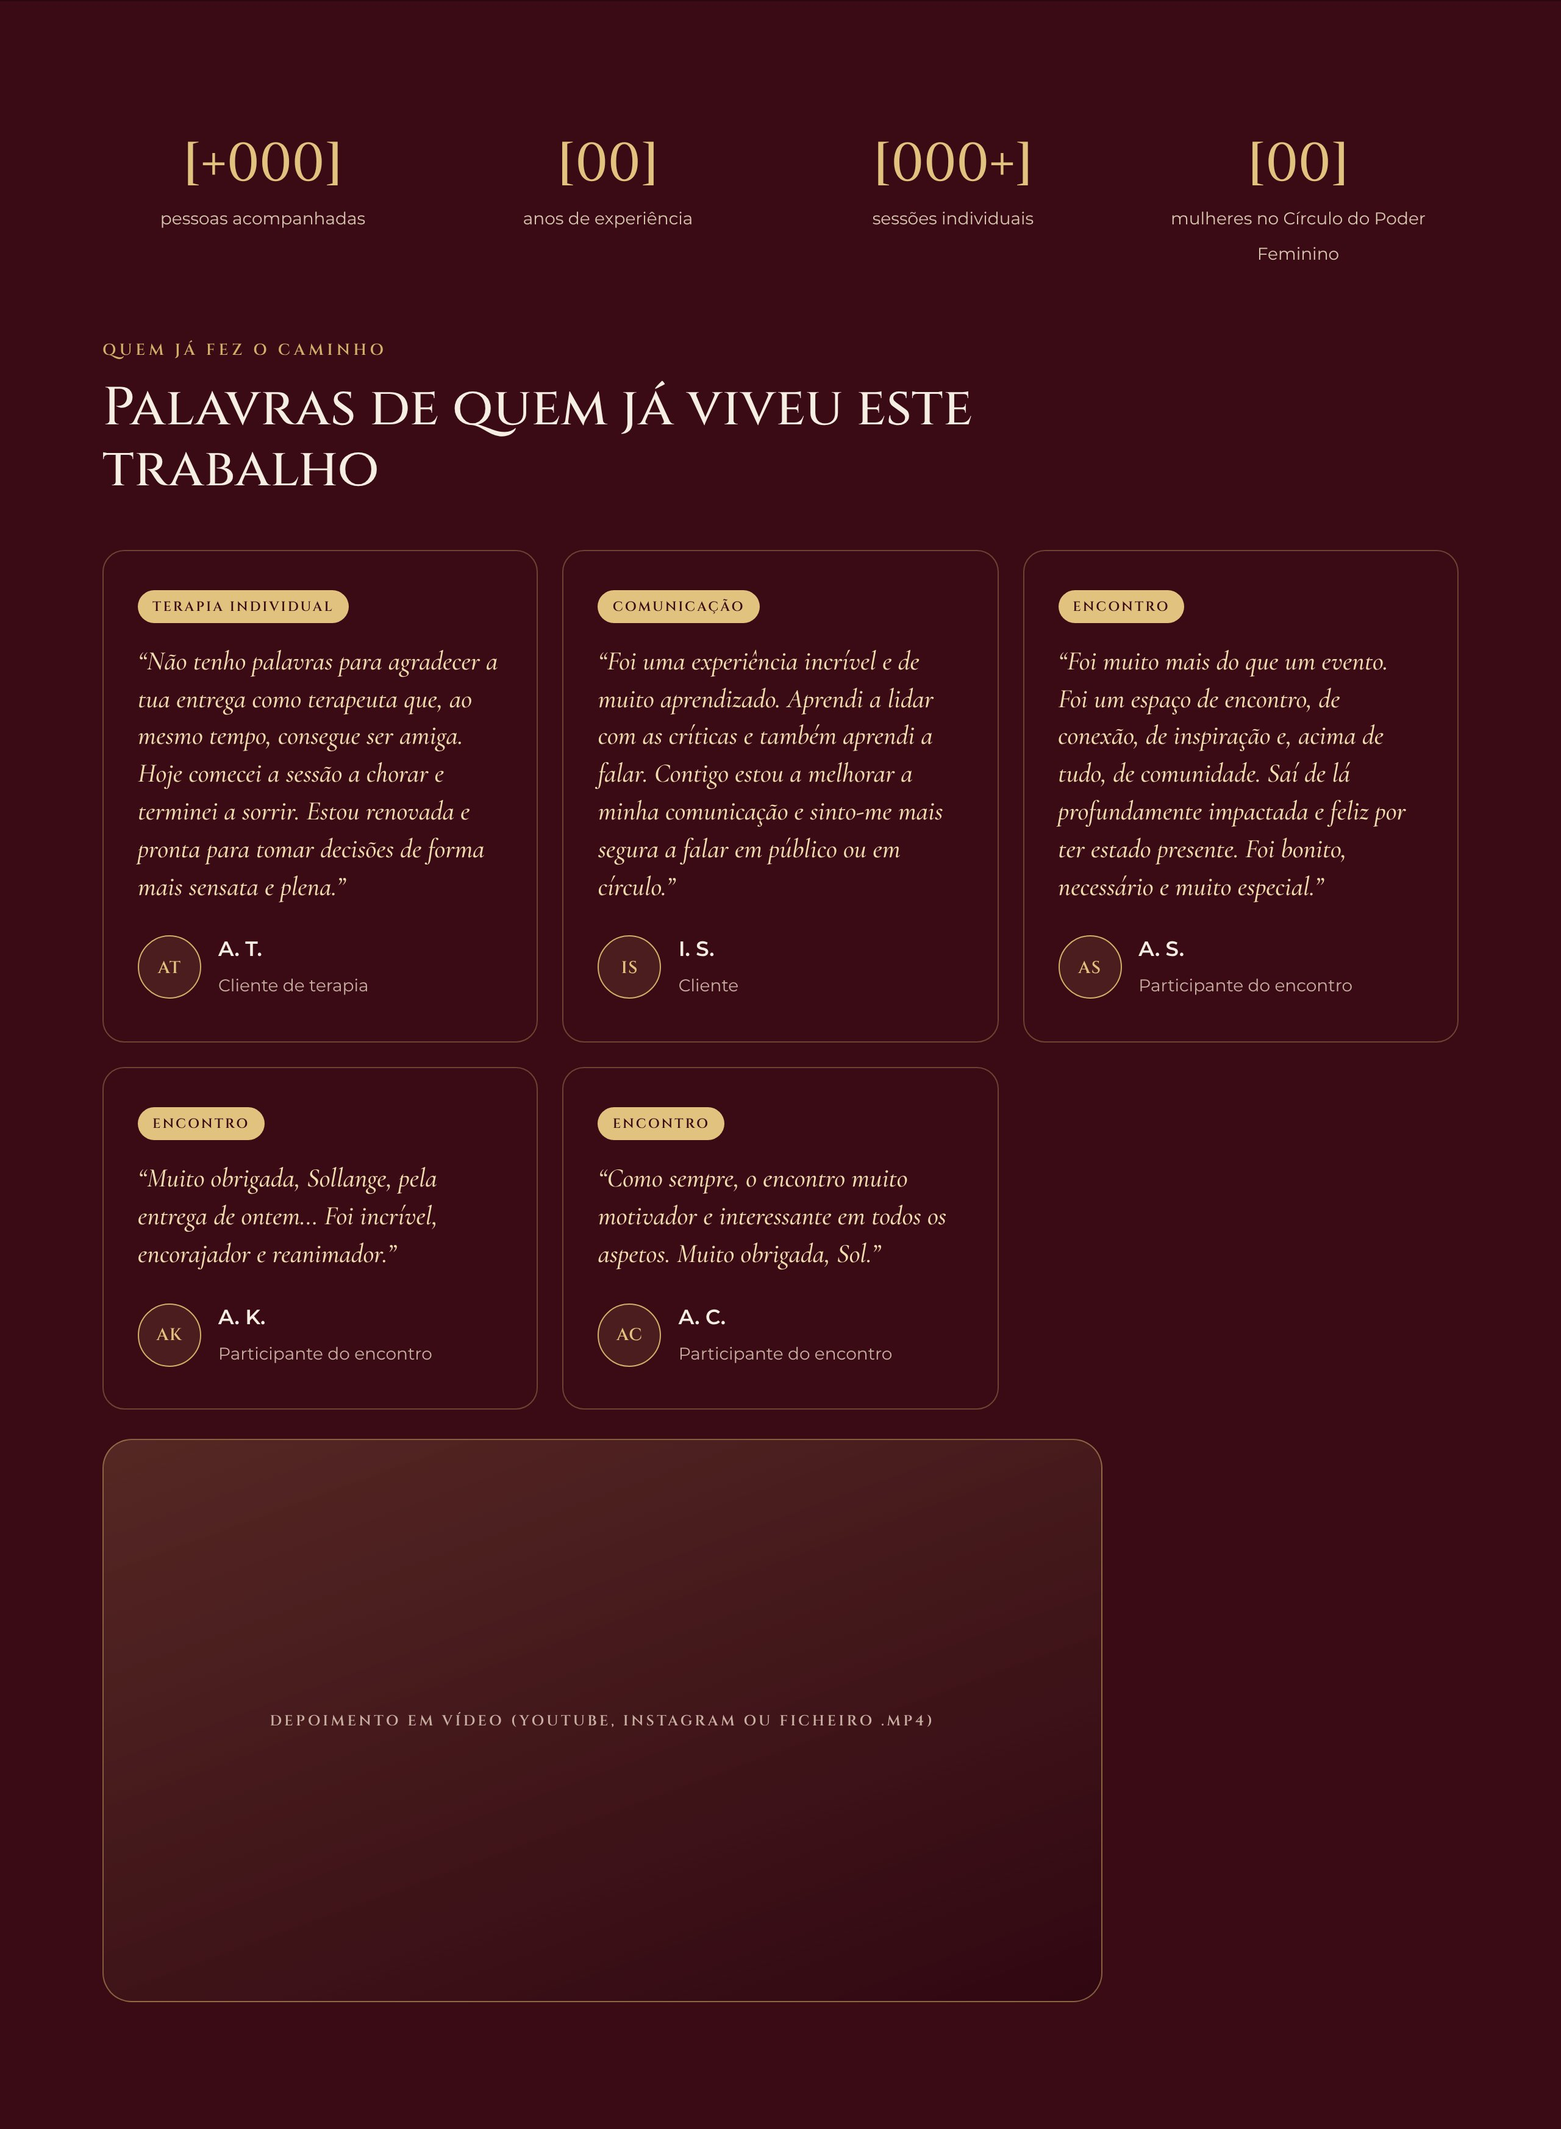
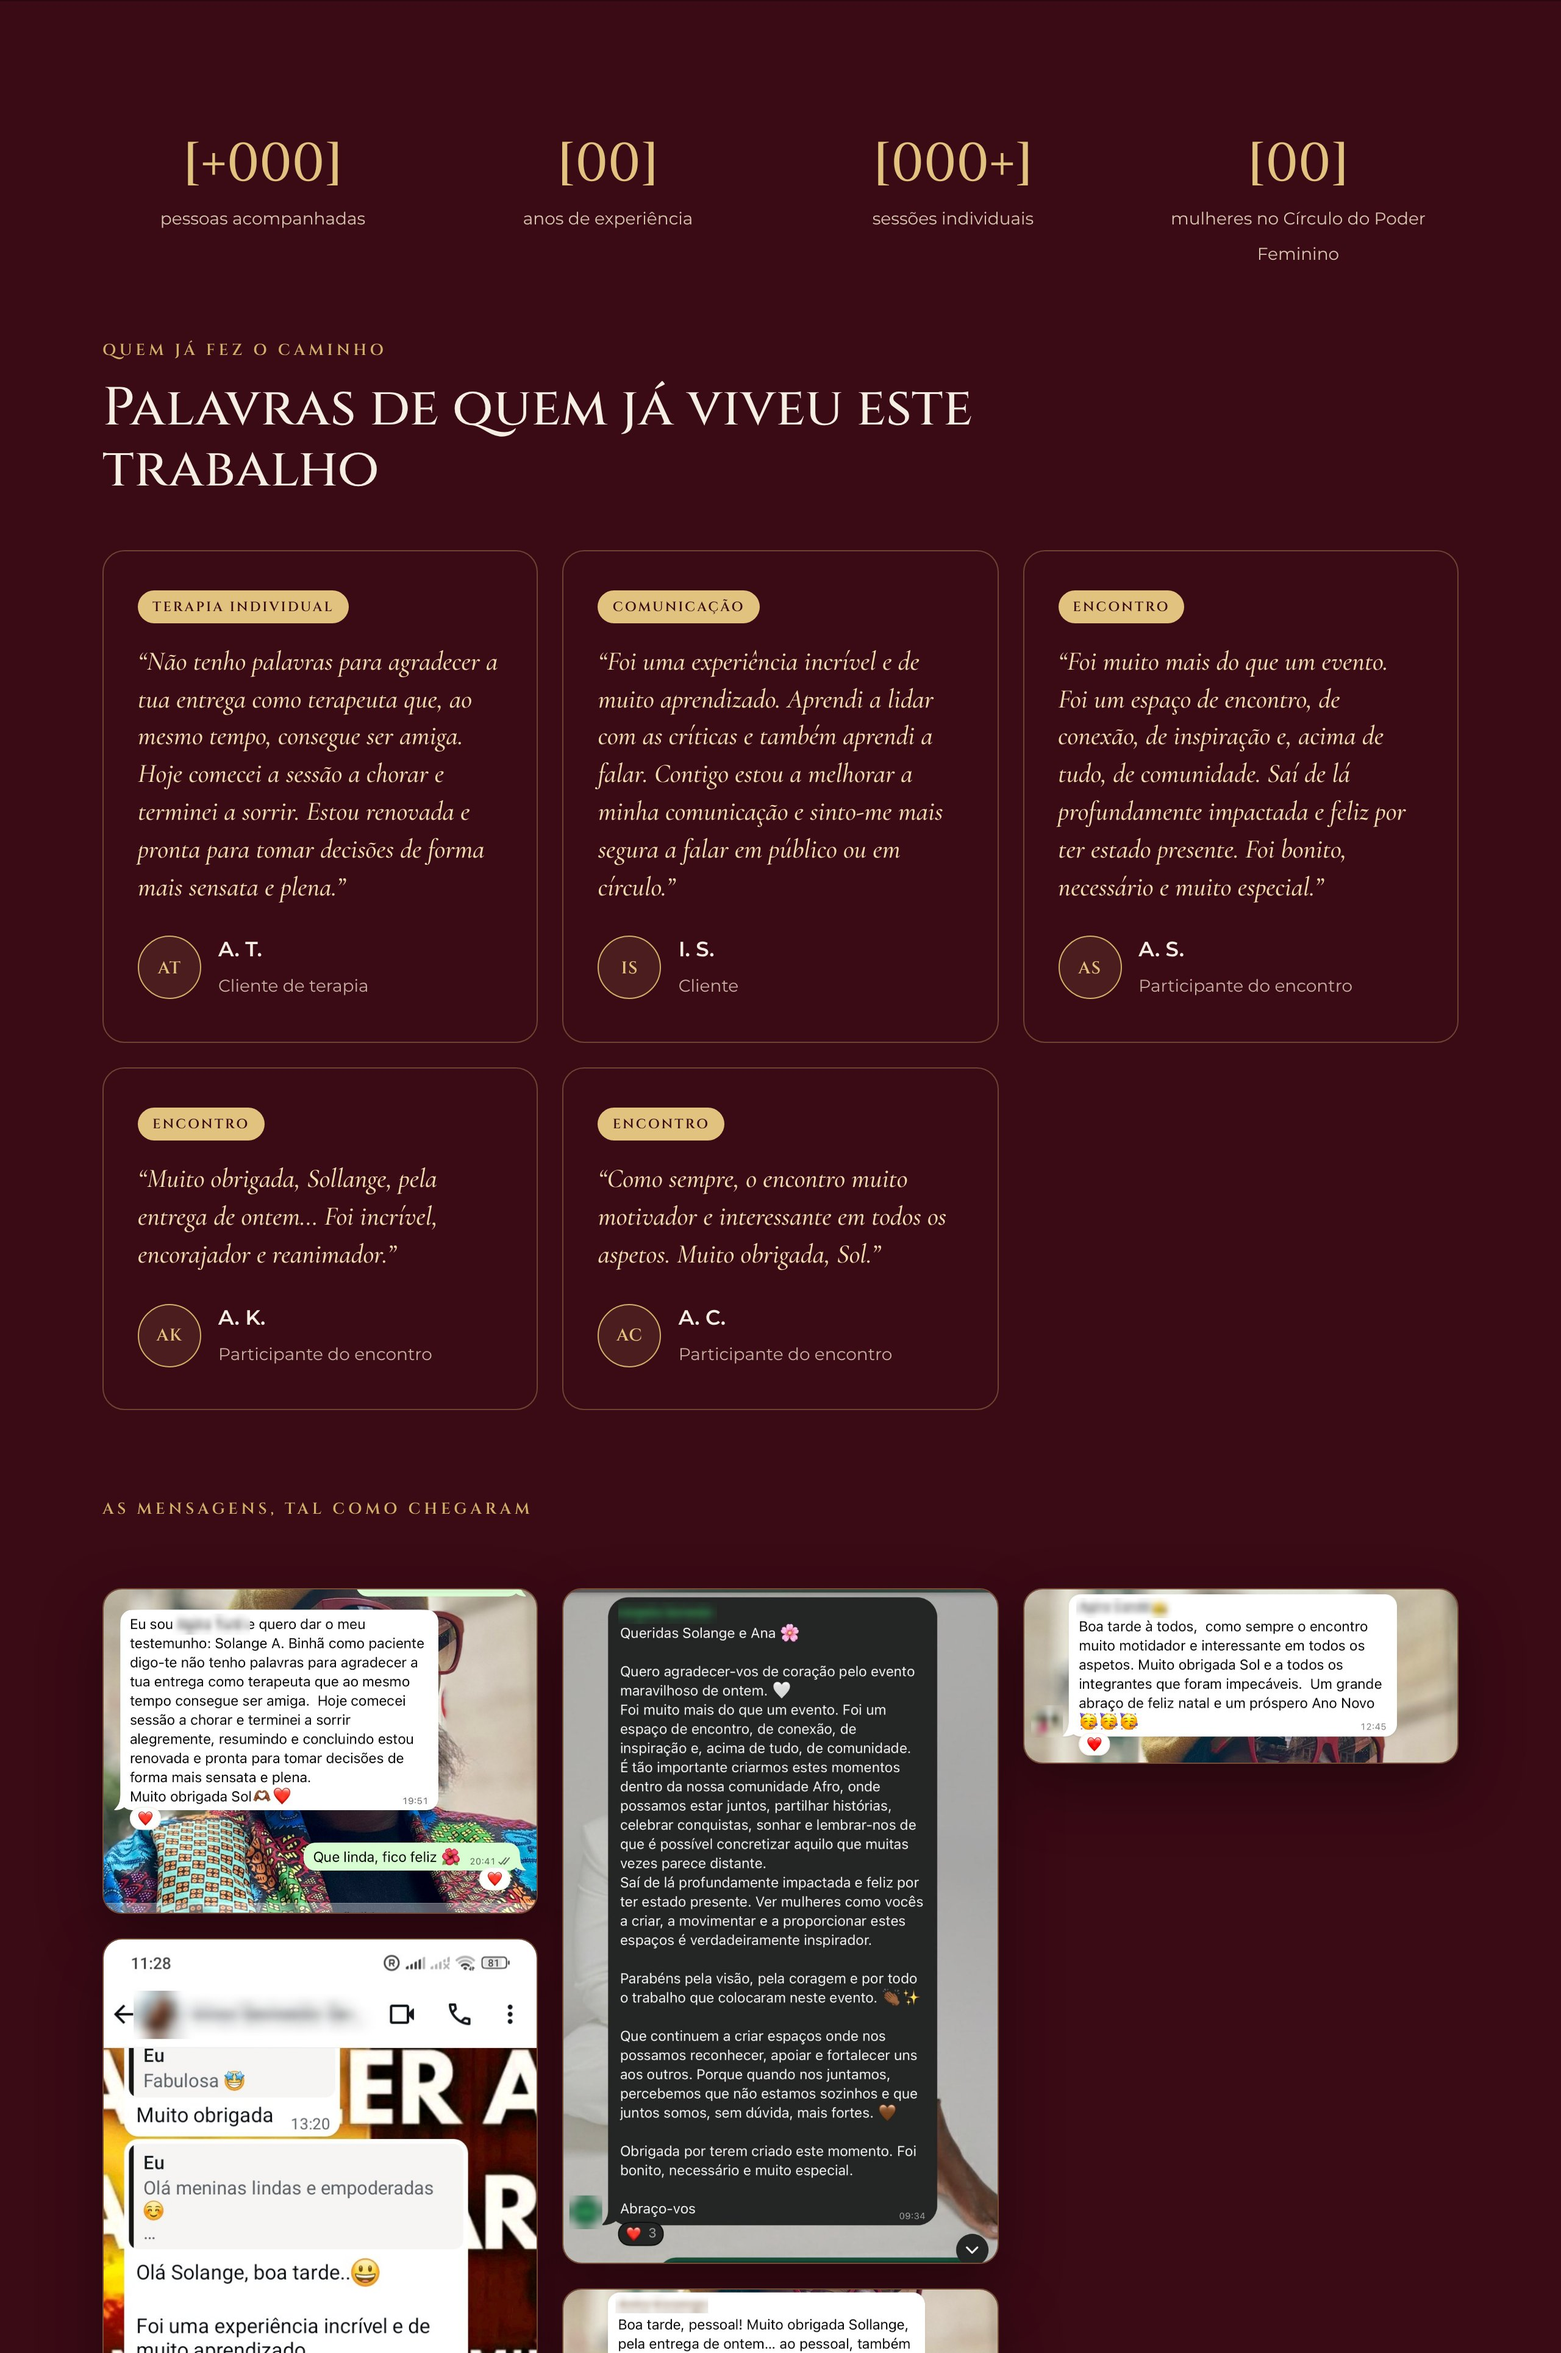
Add client message screenshots with names blurred
Claude-Session: https://claude.ai/code/session_01LHQJ2mQGDsvNSWxv53LoAn

diff --git a/sollange-programas.html b/sollange-programas.html
@@ -131,6 +131,8 @@ ul{padding-left:20px} li{margin-bottom:8px} li::marker{color:#D4AF6A}
 .midia{text-align:center;padding:40px 0;border-top:1px solid rgba(212,175,106,.2);border-bottom:1px solid rgba(212,175,106,.2);background:#2A0610}
 .midia p.eyebrow{margin-bottom:18px;font-size:11px}
 .midia div{display:flex;justify-content:center;gap:40px;flex-wrap:wrap;font:600 15px Cinzel,Georgia,serif;letter-spacing:.14em;color:#8F7466}
+.prints{columns:3 300px;column-gap:20px;margin-top:56px}
+.prints img{width:100%;display:block;margin:0 0 20px;break-inside:avoid;border-radius:16px;border:1px solid rgba(212,175,106,.4);box-shadow:0 20px 50px rgba(0,0,0,.35)}
 footer{text-align:center;padding:40px 0;font-size:14px;color:#C9AFA2;border-top:1px solid rgba(212,175,106,.2)}
 @media (max-width:820px){.hero-grid{grid-template-columns:1fr;text-align:center;gap:40px}.hero-grid .btns{justify-content:center}.hero-grid .foto{max-width:360px;margin:0 auto}.galeria{grid-template-columns:1fr 1fr}.galeria .foto:first-child{grid-column:span 2;aspect-ratio:4/3}.prog-body,.sobre .grid,.transf,.pq{grid-template-columns:1fr;gap:16px}.prog-body{gap:8px}.prog-head,.prog-body{padding-left:24px;padding-right:24px}.ribbon{position:static;display:inline-block;margin-bottom:12px}section{padding:76px 0}nav a.btn{display:none}}
 </style></head><body>
@@ -272,6 +274,8 @@ footer{text-align:center;padding:40px 0;font-size:14px;color:#C9AFA2;border-top:
 <p class="eyebrow">Quem já fez o caminho</p>
 <h2 class="sec-h">Palavras de quem já viveu este trabalho</h2>
 <div class="depo-grid"><figure><span class="depo-res">Terapia individual</span><blockquote>“Não tenho palavras para agradecer a tua entrega como terapeuta que, ao mesmo tempo, consegue ser amiga. Hoje comecei a sessão a chorar e terminei a sorrir. Estou renovada e pronta para tomar decisões de forma mais sensata e plena.”</blockquote><div class="autor"><div class="ini">AT</div><div><b>A. T.</b><span>Cliente de terapia</span></div></div></figure><figure><span class="depo-res">Comunicação</span><blockquote>“Foi uma experiência incrível e de muito aprendizado. Aprendi a lidar com as críticas e também aprendi a falar. Contigo estou a melhorar a minha comunicação e sinto-me mais segura a falar em público ou em círculo.”</blockquote><div class="autor"><div class="ini">IS</div><div><b>I. S.</b><span>Cliente</span></div></div></figure><figure><span class="depo-res">Encontro</span><blockquote>“Foi muito mais do que um evento. Foi um espaço de encontro, de conexão, de inspiração e, acima de tudo, de comunidade. Saí de lá profundamente impactada e feliz por ter estado presente. Foi bonito, necessário e muito especial.”</blockquote><div class="autor"><div class="ini">AS</div><div><b>A. S.</b><span>Participante do encontro</span></div></div></figure><figure><span class="depo-res">Encontro</span><blockquote>“Muito obrigada, Sollange, pela entrega de ontem… Foi incrível, encorajador e reanimador.”</blockquote><div class="autor"><div class="ini">AK</div><div><b>A. K.</b><span>Participante do encontro</span></div></div></figure><figure><span class="depo-res">Encontro</span><blockquote>“Como sempre, o encontro muito motivador e interessante em todos os aspetos. Muito obrigada, Sol.”</blockquote><div class="autor"><div class="ini">AC</div><div><b>A. C.</b><span>Participante do encontro</span></div></div></figure></div>
+<p class="eyebrow" style="margin-top:72px">As mensagens, tal como chegaram</p>
+<div class="prints"><img src="fotos/depoimentos/print-1.jpg" alt="Mensagem de cliente da Sollange" loading="lazy"><img src="fotos/depoimentos/print-2.jpg" alt="Mensagem de cliente da Sollange" loading="lazy"><img src="fotos/depoimentos/print-3.jpg" alt="Mensagem de cliente da Sollange" loading="lazy"><img src="fotos/depoimentos/print-4.jpg" alt="Mensagem de cliente da Sollange" loading="lazy"><img src="fotos/depoimentos/print-5.jpg" alt="Mensagem de cliente da Sollange" loading="lazy"></div>
 <div class="foto video-depo">Depoimento em vídeo (YouTube, Instagram ou ficheiro .mp4)</div>
 </div></section>
 
